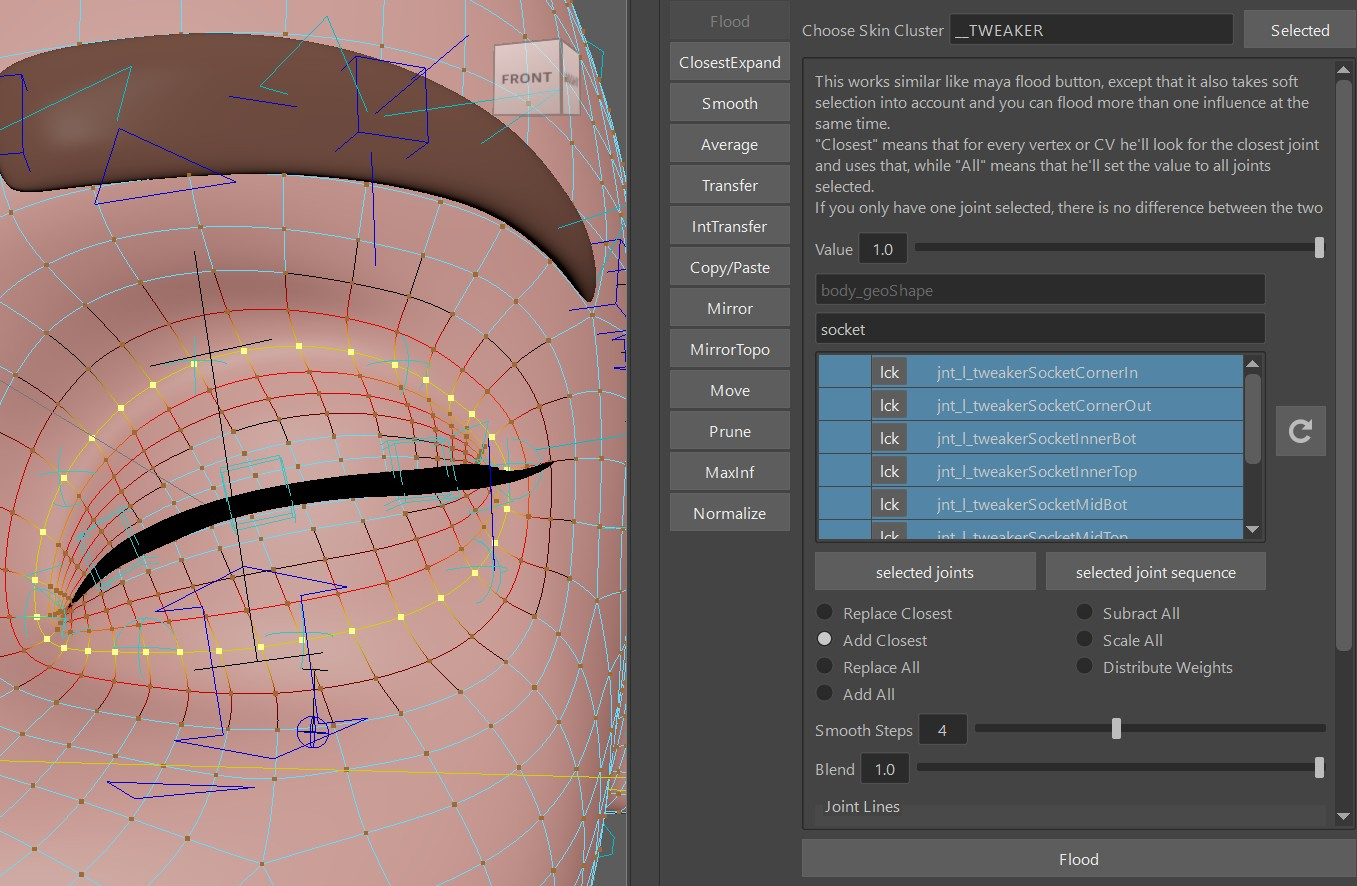
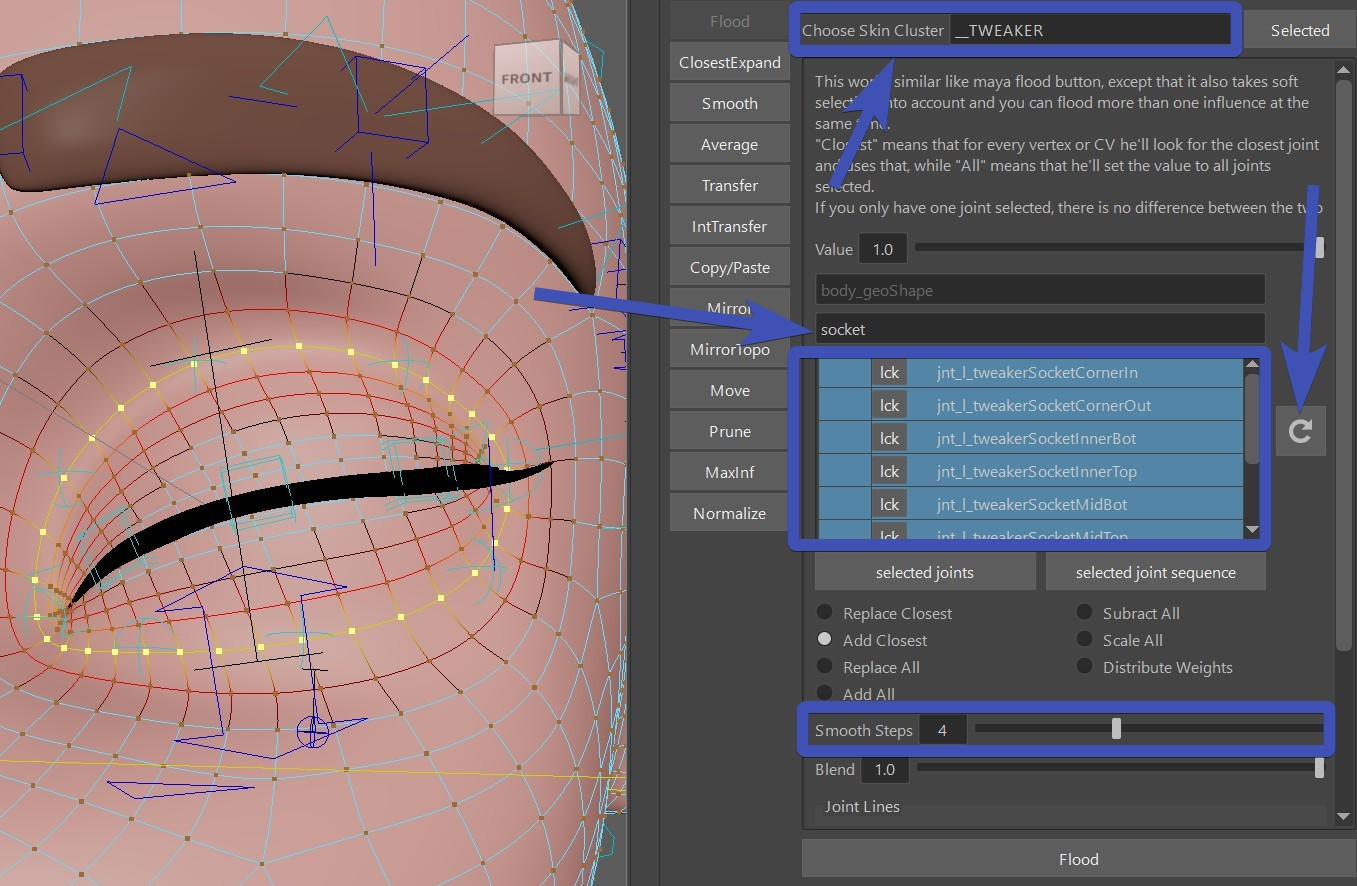
cleaned up faceTweakers

Changed region(s): [[0.3714, 0.2133, 0.9904, 0.64], [0.5571, 0.0, 0.9285, 0.2133], [0.5881, 0.7923, 0.9904, 0.8533]]

diff --git a/kangaroo/docs/face/faceTweakerCtrls.md b/kangaroo/docs/face/faceTweakerCtrls.md
@@ -1,29 +1,34 @@
-## What are they?
 
-Tweaker Ctrls are some extra ctrls on top of your setup that animators can use to add some secondary behavior.
+Tweaker Ctrls are some extra ctrls on top of the main setup that animators can use to add some secondary behavior.  
+![Alt text](../images/faceTweakers_functions.jpg)
 
-!!! info
+
+!!! info "They are NOT the puppet tweakers"
     Remember [Tweaker Ctrls in Puppet](../puppet/tweakerCtrls.md)? The Tweaker ctrls we are talking about here work with the same logic, and most
     things here you could theoretically recreate with what you've learned in Tweaker Ctrls before. But the functions
-    here are  engineered a bit more specifically for facial rigging purposes.
+    here are  engineered a bit more specific for facial rigging purposes.
 
-Apart from the **sockets** we usually just use those tweakers on blendShape driven setups. If you are already using
+Most tweaker setups we just use on blendShape driven setups. If you are already using
 spline setups such as *splineLidSetup()*, *browSplinesSurface()* or the *bSPLINE* mode of *BASEMouthCtrls()*, 
-most of the tweaker setups won't be that useful since those spline setups already come with a lot of ctrls.
+those tweaker setups won't be that useful since the spline setups already come with a lot of ctrls.  
 
+An exception is the **sockets**. Even if you are doing eyelid splines, animators might still want to have the 
+socket tweakers.
 
 ## The Functions...
 
 ### *TWEAKER_lids()*
 Those are for eyelids. Great for when you have blendShape driven Eyelids, and you just want to give animators some
 extra control on top of those.  
-![Alt text](../images/tweakers_eyelids.jpg)
+![Alt text](../images/tweakers_eyelids.jpg)  
 First specify the skin mesh under **sAttachmesh**. This is so later the *parallelAttachFunction()* knows where to
 attach the passers to.
 
 To create the blueprints - select the vertex loop selected:   
 ![Alt text](../images/tweakers_eyevertices.jpg)  
-Click the button **Create Left Curve and Locators**.  
+Click the button **Create Left Curve and Locators**:    
+![Alt text](../images/faceTweakers_createBps.jpg)    
+
 That gives you this curve with locators.   
 ![Alt text](../images/tweakers_eyeCurve.jpg)    
 Make sure the locators are at the corners, since those are what separates bottom and top lids.  
@@ -34,22 +39,22 @@ And then click **-Export Eyelid Tweaker BPs -**
 ![Alt text](../images/tweakers_sockets.jpg)  
 That's the eye sockets. On cartoony characters animators almost always expect them to have some extra control when
 brows move down.  
-Creating the blueprints and exporting works the same as in [TWEAKER_lids](#tweaker_lids)
+Creating the blueprints and exporting works the same as in [*TWEAKER_lids()*](#tweaker_lids)
 
 ### *TWEAKER_browsSimple()*
 Nothing fancy, just 3 controls per side:    
 ![Alt text](../images/tweakers_simpleBrows.jpg)
-Creating the blueprints and exporting works the same as in [TWEAKER_lids](#tweaker_lids)  
+Creating the blueprints and exporting works the same as in [*TWEAKER_lids()*](#tweaker_lids)  
 You do have some extra BPs for the brows to specify the orientations with **Create Left Brow Orientation Locators**:  
 ![Alt text](../images/tweakers_browExtraBps.jpg)     
 
 
 ### *TWEAKER_lips()*
-![Alt text](../images/tweakers_lips.jpg)
-Creating the blueprints starts (!) the same as in [TWEAKER_lids](#tweaker_lids),  
+![Alt text](../images/tweakers_lips.jpg)  
+Creating the blueprints starts (!) the same as in [*TWEAKER_lids()*](#tweaker_lids),  
 But then you need to specify the **bFlipInnerBpCurves** attribute. Set it to *True* if in the center cvs the upper 
 one is below the lower one.  
-!!! tip
+!!! tip "If you realize too late that the bFlipInnerBpCurves is wrong.."
     If you made a mistake with the **bFlipInnerBpCurves** and you need to swich that attributes after you've already skinned it, you can fix
     the weights with **distribute** option on either the *Flood* or the *ClosestExpand* tool. For both select the whole
     mesh. For the *ClosestExpand* tool also set the loop attributes very high, so you let the fade out be handled by the
@@ -65,8 +70,8 @@ But setting it to *True* means he's running a joint spline through the vertices/
 ### Easy ones first..
 All of these *TWEAKER_..()* functions come with a button called **Add Influences to Selected**.  
 And then you can use the **Flood** tool to bind those vertices.  
-Just set the **Choose Skin Cluster** to *__TWEAKER*, reload the list, enter the type of tweakers
-in the search field (*lids*, *lips*, etc), select the joints, put in a nice vertex selection -> **Flood**   
+Just set the **Choose Skin Cluster** to *__TWEAKER*, reload the list with the ![Alt text](../images/python_reloadButtonSmall.jpg) (reload) button, 
+enter the type of tweakers in the search field (*lids*, *lips*, etc), select the joints, put in a nice vertex selection -> **Flood**   
 On characters with lower resolution, also put the **Smooth Steps** to 1.
 ![Alt text](../images/tweakers_paintTheSockets.jpg)   
 
@@ -81,7 +86,7 @@ On characters with lower resolution, also put the **Smooth Steps** to 1.
     for the tweakers the skinCluster needs extra settings under the hood. Those would not happen with any tool
     that is not from Kangaroo.
 
-!!! tip
+!!! tip "Distribute"
     The **Flood** tool can also be very useful with the *Distribute* option activated.  
     For example if you already flooded the weights, but it's too smooth - run it with distribute 
     but in the same tool also set the *Smooth Steps* lower.
@@ -91,8 +96,8 @@ On characters with lower resolution, also put the **Smooth Steps** to 1.
 ### Skinning Tweaker Lips Splines
 If you've set the **bSplines** attribute to *False*, most of it is the same as in the other setups tools. 
 
-But if you **bSplines** as *True*, then instead of the *Flood* tool, you should use the **SkinCluster -> ClosestExpand** tool 
-for binding them.  
+But if you have **bSplines** as *True*, then instead of the *Flood* tool, you should use the 
+[ClosestExpand tool](../tools/toolsSkinCluster.md#closestexpand) for binding them.  
 *Why?*   
 Because we have a joint for each vertex on the loop.   
 
@@ -100,19 +105,20 @@ Because we have a joint for each vertex on the loop.
 ## Ctrl Attachments
 ### *parallelAttachTransforms()*
 Same as for Custom Attachers, the *parallAttachTransforms()* function is making the ctrl passers follow the mesh.  
-It's called *parallel* because it seems like it's getting attached to the mesh, but in fact
+![Alt text](../images/faceTweakers_parallelAttachFunction.jpg)  
+It's called *parallel* because it only seems like it's getting attached by the mesh, while in fact
 it's looking at which joints the closest vertex of each ctrl is bound to, and then recreates the
 skincluster behavior of that vertex with matrix nodes. It works for more than one skinCluster, but
 does NOT include the actual *__TWEAKER* skinCluster that those ctrls are influencing. Otherwise you'd
 get a cycle.
-It's similar for blendShapes, except instead of matrix nodes it's using range nodes.  
+It also takes blendShapes, except instead of matrix nodes it's creating range nodes.  
 
 ### What if a ctrl doesn't follow nicely?
 In some rare cases it doesn't find a good vertex. You'll see that when for example on open mouth or closing eyelids 
 one or two ctrls are following a bit too slow or too fast.
 
-Whenever that happens, the first thing is check if your function has the **bSnapToBlueprintCvs** attribute.
-If it does, try setting that to *True*.
+Whenever that happens, the first thing is check if your function has the **bSnapToBlueprintCvs** attribute. 
+If it does, try setting that to *True*. Keep in mind that this changes the positions of the ctrls! So use it with caution.
 
 If that doesn't help - we can fix it with a python function
 that's moving the passer groups closer to the actual vertex you'd like to bind to:
@@ -142,5 +148,6 @@ The *TWEAKER_lips()* function can be added more than once on the same character.
 Setting it up is a bit more advanced:
 
 - right click on *TWEAKER_lips()* -> *set function instance count* -> 2 (or more)
-- on the second function that just appeared: set the **sSuffix** attribute to something like 'A', otherwise you'll end up having clashing names 
+- on the second function that just appeared: set the **sSuffix** attribute to something like 'A', otherwise you'd end up having clashing names 
 - And for the second function you also have to add the first skincluster (.._TWEAKER) into the *sAdditionalAttachDeformers()* list, so it also follows the first one
+
